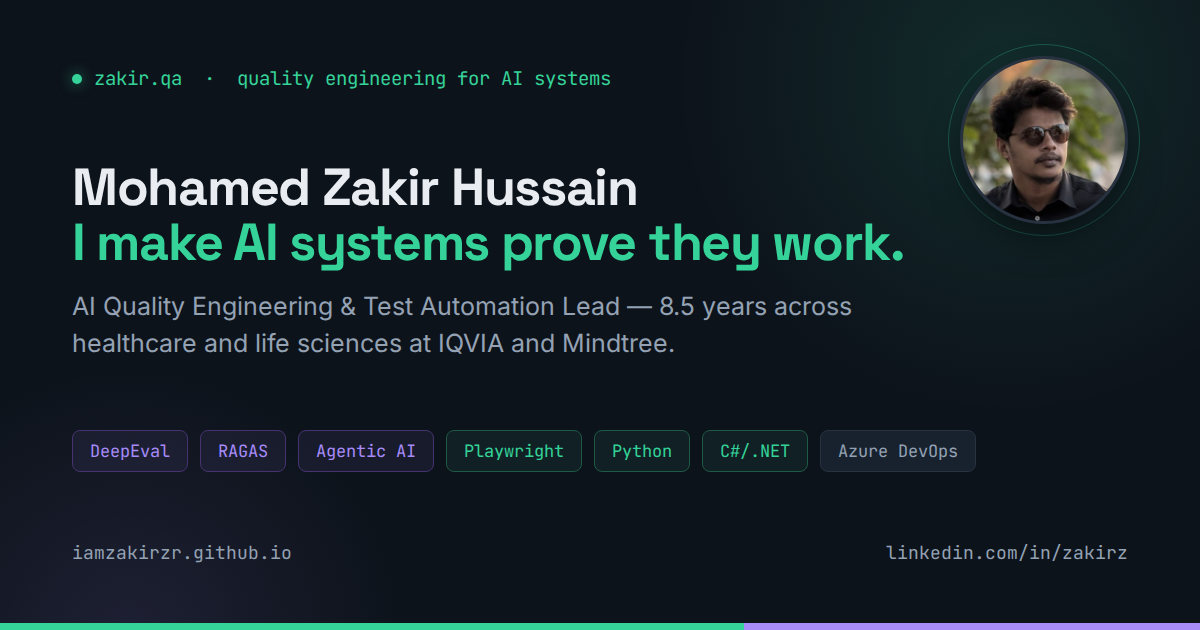
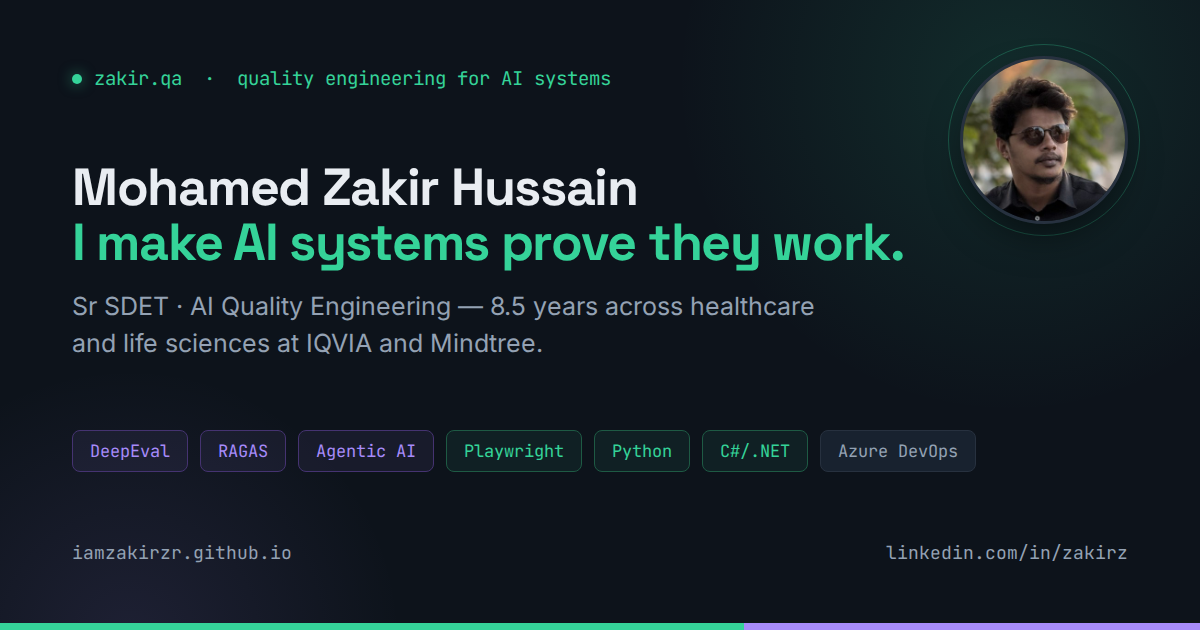
Change the headline role to Sr SDET
Replace "AI Quality Engineering & Test Automation Lead" with "Sr SDET, AI
Quality Engineering" across the page title, Open Graph and Twitter tags, the
left-column role line, the contact block, the JSON-LD description, the README
header, and the share card.

Lead with the title rather than the discipline. "AI Quality Engineering & Sr
SDET" joins a field of work to an abbreviated job title and reads lopsided;
title first, specialism second parses cleanly and keeps both terms searchable.

The share card is re-rendered, so it needs revalidating through LinkedIn Post
Inspector before the link is shared again.

Verified: no occurrence of the old string remains in any tracked file, the card
is still exactly 1200x630, and the audit passes at 1440, 1280, 1024, 768 and
390px with scroll-spy correct on all six sections.

Claude-Session: https://claude.ai/code/session_015tQnC3pVceLXRUZ373i6am

Changed region(s): [[0.0617, 0.4524, 0.7092, 0.573]]

diff --git a/index.html b/index.html
@@ -3,7 +3,7 @@
 <head>
 <meta charset="UTF-8">
 <meta name="viewport" content="width=device-width, initial-scale=1.0">
-<title>Mohamed Zakir Hussain — AI Quality Engineering &amp; Test Automation Lead</title>
+<title>Mohamed Zakir Hussain — Sr SDET, AI Quality Engineering</title>
 <meta name="description" content="Senior QA Engineer with 8.5 years in healthcare and life sciences at IQVIA and Mindtree. LLM, RAG and agentic AI evaluation with DeepEval and RAGAS, plus test automation frameworks in Python and C# wired into Azure DevOps.">
 <meta name="author" content="Mohamed Zakir Hussain">
 <link rel="canonical" href="https://iamzakirzr.github.io/">
@@ -11,15 +11,15 @@
 
 <meta property="og:type" content="profile">
 <meta property="og:site_name" content="Mohamed Zakir Hussain">
-<meta property="og:title" content="Mohamed Zakir Hussain — AI Quality Engineering &amp; Test Automation Lead">
+<meta property="og:title" content="Mohamed Zakir Hussain — Sr SDET, AI Quality Engineering">
 <meta property="og:description" content="8.5 years testing enterprise platforms in healthcare and life sciences. Now proving LLM, RAG and agentic AI systems actually work — DeepEval, RAGAS, Playwright, Azure DevOps.">
 <meta property="og:url" content="https://iamzakirzr.github.io/">
 <meta property="og:image" content="https://iamzakirzr.github.io/assets/og-image.png">
 <meta property="og:image:width" content="1200">
 <meta property="og:image:height" content="630">
-<meta property="og:image:alt" content="Mohamed Zakir Hussain — AI Quality Engineering and Test Automation Lead">
+<meta property="og:image:alt" content="Mohamed Zakir Hussain — Sr SDET, AI Quality Engineering">
 <meta name="twitter:card" content="summary_large_image">
-<meta name="twitter:title" content="Mohamed Zakir Hussain — AI Quality Engineering &amp; Test Automation Lead">
+<meta name="twitter:title" content="Mohamed Zakir Hussain — Sr SDET, AI Quality Engineering">
 <meta name="twitter:description" content="8.5 years testing enterprise platforms in healthcare and life sciences. Now proving LLM, RAG and agentic AI systems actually work.">
 <meta name="twitter:image" content="https://iamzakirzr.github.io/assets/og-image.png">
 
@@ -289,7 +289,7 @@
     <img class="photo" src="assets/photo.jpg" width="88" height="88" alt="Mohamed Zakir Hussain" loading="eager" decoding="async">
     <a class="logo" href="#top"><span class="dot" aria-hidden="true"></span>zakir.qa</a>
     <h1>Mohamed Zakir Hussain</h1>
-    <p class="role">AI Quality Engineering &amp;<br>Test Automation Lead</p>
+    <p class="role">Sr SDET &middot;<br>AI Quality Engineering</p>
     <p class="pitch">I make AI systems prove they work. 8.5 years of test automation across healthcare and life sciences, now building the evaluation harnesses that decide whether an LLM feature is fit to ship.</p>
     <span class="avail"><i aria-hidden="true"></i>Open to opportunities</span>
 
@@ -540,7 +540,7 @@
       <h2>Get in touch</h2>
       <div class="contact-terminal">
         <div class="line"><span class="prompt">$</span> whoami</div>
-        <div class="line out">Mohamed Zakir Hussain &mdash; AI Quality Engineering &amp; Test Automation Lead</div>
+        <div class="line out">Mohamed Zakir Hussain &mdash; Sr SDET, AI Quality Engineering</div>
         <div class="line"><span class="prompt">$</span> contact --email</div>
         <div class="line out">zakir9622@gmail.com</div>
         <div class="line"><span class="prompt">$</span> status</div>
@@ -593,7 +593,7 @@
   "@type":"Person",
   "name":"Mohamed Zakir Hussain",
   "jobTitle":"Senior QA Engineer / Software Engineer 2",
-  "description":"AI Quality Engineering and Test Automation Lead with 8.5 years of experience across healthcare and life sciences platforms.",
+  "description":"Sr SDET and AI quality engineer with 8.5 years of experience across healthcare and life sciences platforms.",
   "url":"https://iamzakirzr.github.io/",
   "email":"mailto:zakir9622@gmail.com",
   "worksFor":{"@type":"Organization","name":"IQVIA"},

diff --git a/README.md b/README.md
@@ -1,7 +1,7 @@
 <h1 align="left">Mohamed Zakir Hussain</h1>
 
 <p align="left">
-  <strong>AI Quality Engineering &amp; Test Automation Lead</strong><br>
+  <strong>Sr SDET &middot; AI Quality Engineering</strong><br>
   Senior QA Engineer · Software Engineer 2 at IQVIA
 </p>
 
